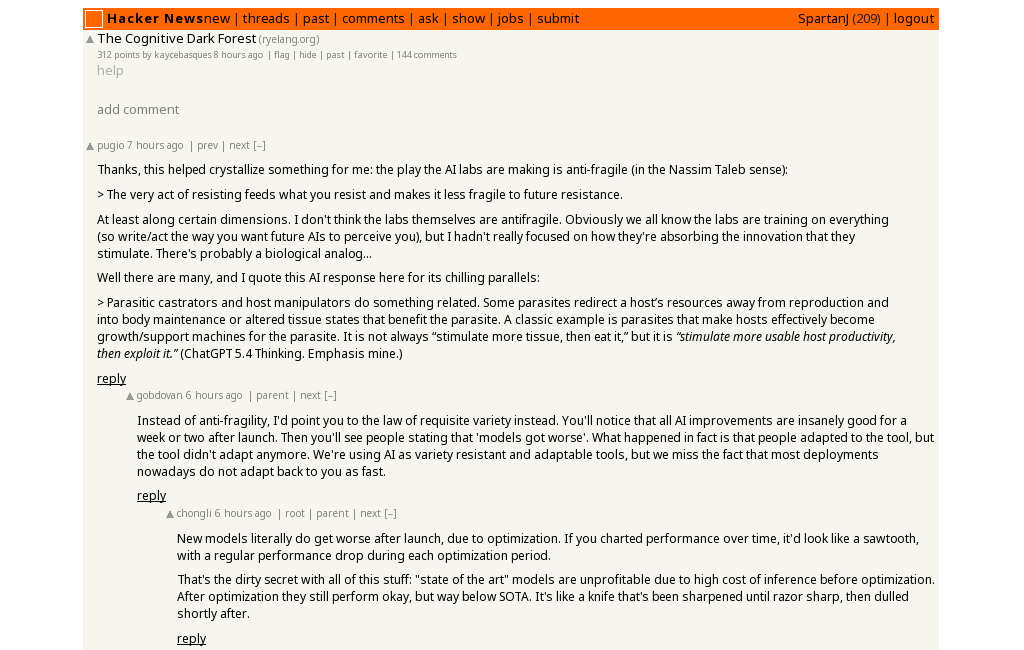
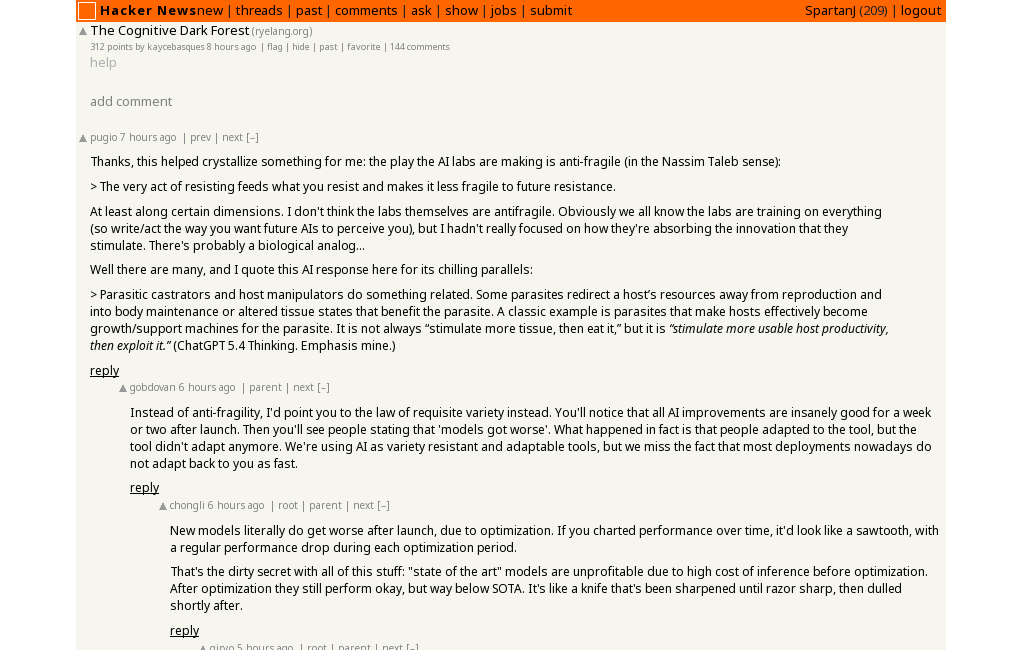
Open folder if valid on press enter in path input (SpartanJ/ecode#872). Improved resources path solving. Minor changes in tests.

diff --git a/bin/unit_tests/assets/html/base.css b/bin/unit_tests/assets/html/base.css
@@ -1,8 +1,4 @@
 body {
-	margin-top: 8px;
-	margin-right: 8px;
-	margin-bottom: 8px;
-	margin-left: 8px;
 	font-size: 11px;
 	color: black;
 	background-color: white;

diff --git a/src/eepp/graphics/drawablesearcher.cpp b/src/eepp/graphics/drawablesearcher.cpp
@@ -107,7 +107,8 @@ static Drawable* parseDataURI( const std::string& name ) {
 	return drawable;
 }
 
-Drawable* DrawableSearcher::searchByName( const std::string& name, bool firstSearchSprite ) {
+Drawable* DrawableSearcher::searchByName( const std::string& name, bool firstSearchSprite,
+										  Network::URI referer ) {
 	Drawable* drawable = NULL;
 
 	if ( name.size() ) {
@@ -147,12 +148,12 @@ Drawable* DrawableSearcher::searchByName( const std::string& name, bool firstSea
 		} else if ( String::startsWith( name, "file://" ) ) {
 			std::string filePath( name.substr( 7 ) );
 
-			#if EE_PLATFORM == EE_PLATFORM_WIN
+#if EE_PLATFORM == EE_PLATFORM_WIN
 			if ( filePath.size() >= 3 && filePath[0] == '/' && String::isLetter( filePath[1] ) &&
 				 filePath[2] == ':' ) {
 				filePath = filePath.substr( 1 );
 			}
-			#endif
+#endif
 
 			drawable = TextureFactory::instance()->getByName( filePath );
 
@@ -171,17 +172,25 @@ Drawable* DrawableSearcher::searchByName( const std::string& name, bool firstSea
 					1, 1, 4, Color::Transparent, false, Texture::ClampMode::ClampToEdge, false,
 					false, name );
 
+				std::map<std::string, std::string> headers;
+				if ( !referer.empty() )
+					headers["referer"] = referer.toString();
+
 				Http::getAsync(
-					[texture]( const Http&, Http::Request&, Http::Response& response ) {
-						if ( !response.getBody().empty() ) {
+					[texture, name]( const Http&, Http::Request&, Http::Response& response ) {
+						if ( response.isOK() && !response.getBody().empty() ) {
 							Image image( (const Uint8*)&response.getBody()[0],
 										 response.getBody().size() );
 
 							if ( image.getPixels() != NULL )
 								texture->replace( &image );
+						} else {
+							Log::debug( "DrawableSearcher::searchByName: could not download image: "
+										"%s. Error: %d\n%s",
+										name, response.getStatus(), response.getBody() );
 						}
 					},
-					URI( name ), Seconds( 5 ) );
+					URI( name ), Seconds( 5 ), {}, headers );
 			}
 
 			drawable = texture;

diff --git a/src/eepp/ui/css/stylesheetlength.cpp b/src/eepp/ui/css/stylesheetlength.cpp
@@ -30,6 +30,7 @@ enum UnitHashes : String::HashType {
 	Dprd = String::hash( "dprd" ),
 	Dpru = String::hash( "dpru" ),
 	Dpr = String::hash( "dpr" ),
+	Ch = String::hash( "ch" ),
 };
 
 enum PercentagePositions : String::HashType {
@@ -116,6 +117,8 @@ StyleSheetLength::Unit StyleSheetLength::unitFromString( std::string unitStr ) {
 			return Unit::Dpru;
 		case UnitHashes::Dpr:
 			return Unit::Dpr;
+		case UnitHashes::Ch:
+			return Unit::Ch;
 	}
 	return Unit::Dp;
 }
@@ -162,6 +165,8 @@ std::string StyleSheetLength::unitToString( const StyleSheetLength::Unit& unit )
 			return "dpru";
 		case Unit::Dpr:
 			return "dpr";
+		case Unit::Ch:
+			return "ch";
 	}
 	return "px";
 }
@@ -234,6 +239,7 @@ Float StyleSheetLength::asPixels( const Float& parentSize, const Sizef& viewSize
 			ret = Math::roundUp( PixelDensity::dpToPx( mValue ) );
 			break;
 		case Unit::Em:
+		case Unit::Ch: // Using Em for Ch is incorrect but not that incorrect, close enough
 			ret = Math::round( mValue * elFontSize );
 			break;
 		case Unit::Pt:
@@ -265,6 +271,10 @@ Float StyleSheetLength::asPixels( const Float& parentSize, const Sizef& viewSize
 			break;
 		case Unit::Rem:
 			ret = globalFontSize * mValue;
+			break;
+		case Unit::Dpi:
+		case Unit::Dpcm:
+			ret = (int)( mValue * 2.54 );
 			break;
 		case Unit::Px:
 		default:

diff --git a/src/eepp/ui/uiimage.cpp b/src/eepp/ui/uiimage.cpp
@@ -363,12 +363,7 @@ bool UIImage::applyProperty( const StyleSheetProperty& attribute ) {
 			bool ownIt;
 
 			if ( uri.getScheme().empty() && !getUISceneNode()->getURI().empty() ) {
-				uri = getUISceneNode()->getURI();
-				std::string newPath = uri.getPath();
-				if ( !path.empty() && path[0] != '/' )
-					FileSystem::dirAddSlashAtEnd( newPath );
-				newPath += path;
-				uri.setPath( newPath );
+				uri = getUISceneNode()->solveRelativePath( uri );
 				path = uri.toString();
 			}
 
@@ -379,7 +374,8 @@ bool UIImage::applyProperty( const StyleSheetProperty& attribute ) {
 				setDrawable( createdDrawable, ownIt );
 			} else {
 				Drawable* res = NULL;
-				if ( NULL != ( res = DrawableSearcher::searchByName( path ) ) )
+				if ( NULL != ( res = DrawableSearcher::searchByName(
+								   path, false, getUISceneNode()->getReferer() ) ) )
 					setDrawable( res, res->getDrawableType() == Drawable::SPRITE );
 			}
 			break;

diff --git a/src/eepp/ui/css/drawableimageparser.cpp b/src/eepp/ui/css/drawableimageparser.cpp
@@ -36,7 +36,8 @@ Drawable* DrawableImageParser::createDrawable( const std::string& value, const S
 	if ( !functionType.isEmpty() ) {
 		if ( exists( functionType.getName() ) )
 			return mFuncs[functionType.getName()]( functionType, size, ownIt, node );
-	} else if ( NULL != ( res = DrawableSearcher::searchByName( value ) ) ) {
+	} else if ( NULL != ( res = DrawableSearcher::searchByName(
+							  value, false, node->getUISceneNode()->getReferer() ) ) ) {
 		if ( res->getDrawableType() == Drawable::SPRITE )
 			ownIt = true;
 		return res;
@@ -334,7 +335,8 @@ void DrawableImageParser::registerBaseParsers() {
 		return DrawableSearcher::searchByName(
 			node->getUISceneNode()
 				->solveRelativePath( functionType.getParameters().at( 0 ) )
-				.toString() );
+				.toString(),
+			false, node->getUISceneNode()->getReferer() );
 	};
 
 	mFuncs["icon"] = []( const FunctionString& functionType, const Sizef& size, bool&,

diff --git a/include/eepp/ui/uiscenenode.hpp b/include/eepp/ui/uiscenenode.hpp
@@ -715,6 +715,9 @@ class EE_API UISceneNode : public SceneNode {
 	 */
 	URI solveRelativePath( URI uri, URI baseURI = {} );
 
+	/** @return The document referer */
+	URI getReferer() const { return mReferer; };
+
   protected:
 	friend class EE::UI::UIWindow;
 	friend class EE::UI::UIWidget;
@@ -743,6 +746,7 @@ class EE_API UISceneNode : public SceneNode {
 	Uint32 mCurOnSizeChangeListener{ 0 };
 	std::shared_ptr<ThreadPool> mThreadPool;
 	URI mURI;
+	URI mReferer;
 	std::function<bool( URI uri )> mURLInterceptorCb;
 
 	/**
@@ -957,8 +961,7 @@ class EE_API UISceneNode : public SceneNode {
 
 	/** @return The document / scene URI used to resolve paths from a complete URI (with
 	 * path+query+fragment+etc) */
-	URI getURIFromURL( const URI& url );
-
+	URI getURIFromURL( const URI& url ) const;
 };
 
 }} // namespace EE::UI

diff --git a/src/eepp/ui/uifiledialog.cpp b/src/eepp/ui/uifiledialog.cpp
@@ -667,8 +667,12 @@ void UIFileDialog::open() {
 }
 
 void UIFileDialog::onPressEnter( const Event* ) {
-	if ( FileSystem::isDirectory( mPath->getText() ) ||
-		 ( FDLG_DRIVE_PATH == mPath->getText().toUtf8() && !Sys::getLogicalDrives().empty() ) ) {
+	if ( allowFolderSelect() && FileSystem::isDirectory( mPath->getText() ) ) {
+		setCurPath( mPath->getText() );
+		open();
+	} else if ( FileSystem::isDirectory( mPath->getText() ) ||
+				( FDLG_DRIVE_PATH == mPath->getText().toUtf8() &&
+				  !Sys::getLogicalDrives().empty() ) ) {
 		setCurPath( mPath->getText() );
 	} else if ( !allowFolderSelect() && FileSystem::fileExists( mPath->getText() ) ) {
 		String folderPath( FileSystem::fileRemoveFileName( mPath->getText() ) );

diff --git a/src/eepp/ui/css/mediaquery.cpp b/src/eepp/ui/css/mediaquery.cpp
@@ -94,14 +94,7 @@ MediaQuery::ptr MediaQuery::parse( const std::string& str ) {
 								StyleSheetLength length =
 									StyleSheetLength::fromString( exprTokens[1] );
 								expr.valStr = String::toLower( exprTokens[1] );
-
-								if ( length.getUnit() == StyleSheetLength::Unit::Dpcm ||
-									 length.getUnit() == StyleSheetLength::Unit::Dpi ) {
-									expr.val = (int)( length.getValue() * 2.54 );
-								} else {
-									expr.val = (int)length.asPixels( 0, Sizef::Zero, dpi );
-								}
-
+								expr.val = (int)length.asPixels( 0, Sizef::Zero, dpi );
 								expr.fval = length.getValue();
 							}
 						}

diff --git a/src/eepp/ui/uiwidgetcreator.cpp b/src/eepp/ui/uiwidgetcreator.cpp
@@ -170,6 +170,7 @@ void UIWidgetCreator::createBaseWidgetList() {
 		registeredWidget["article"] = [] { return UIRichText::NewWithTag( "article" ); };
 		registeredWidget["footer"] = [] { return UIRichText::NewWithTag( "footer" ); };
 		registeredWidget["main"] = [] { return UIRichText::NewWithTag( "main" ); };
+		registeredWidget["section"] = [] { return UIRichText::NewWithTag( "section" ); };
 		registeredWidget["nav"] = [] { return UIRichText::NewWithTag( "nav" ); };
 		registeredWidget["center"] = [] { return UIRichText::NewWithTag( "center" ); };
 		registeredWidget["html"] = [] { return UIRichText::NewWithTag( "html" ); };

diff --git a/include/eepp/graphics/drawablesearcher.hpp b/include/eepp/graphics/drawablesearcher.hpp
@@ -3,12 +3,14 @@
 
 #include <eepp/core/core.hpp>
 #include <eepp/graphics/drawable.hpp>
+#include <eepp/network/uri.hpp>
 
 namespace EE { namespace Graphics {
 
 class EE_API DrawableSearcher {
   public:
-	static Drawable* searchByName( const std::string& name, bool firstSearchSprite = false );
+	static Drawable* searchByName( const std::string& name, bool firstSearchSprite = false,
+								   Network::URI referer = "" );
 
 	static Drawable* searchById( const Uint32& id );
 

diff --git a/src/eepp/ui/uiscenenode.cpp b/src/eepp/ui/uiscenenode.cpp
@@ -1368,7 +1368,7 @@ void UISceneNode::setURI( const URI& uri ) {
 	mURI = uri;
 }
 
-URI UISceneNode::getURIFromURL( const URI& url ) {
+URI UISceneNode::getURIFromURL( const URI& url ) const {
 	URI baseURI( url );
 	std::string path = baseURI.getPath();
 
@@ -1396,6 +1396,7 @@ URI UISceneNode::getURIFromURL( const URI& url ) {
 
 void UISceneNode::setURIFromURL( const URI& url ) {
 	setURI( getURIFromURL( url ) );
+	mReferer = url;
 }
 
 void UISceneNode::openURL( URI uri ) {

diff --git a/src/tests/unit_tests/uihtml_tests.cpp b/src/tests/unit_tests/uihtml_tests.cpp
@@ -49,7 +49,7 @@ UTEST( UIHTMLTable, complexLayout ) {
 						32, {}, 1, false, true ),
 		ContextSettings( false, 0, 0, GLv_default, true, false ) );
 	FileSystem::changeWorkingDirectory( Sys::getProcessPath() );
-	
+
 	FontTrueType* font = FontTrueType::New( "NotoSans-Regular" );
 	font->loadFromFile( "../assets/fonts/NotoSans-Regular.ttf" );
 	ASSERT_TRUE( font != nullptr && font->loaded() );
